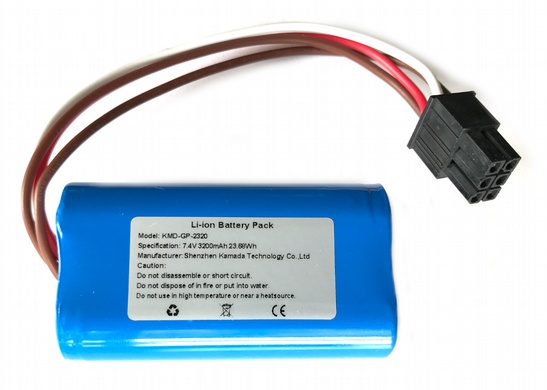
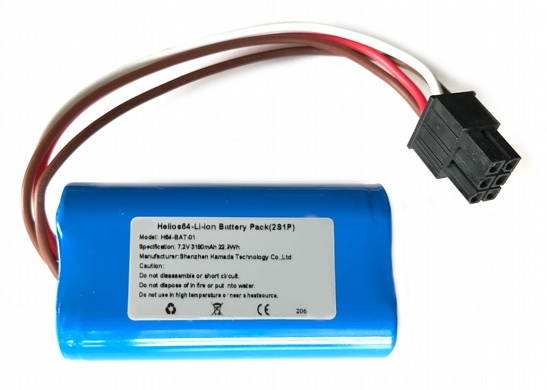
Update H64 UPS battery info

Changed region(s): [[0.2486, 0.5538, 0.5905, 0.8308]]

diff --git a/docs/helios64/ups.md b/docs/helios64/ups.md
@@ -10,13 +10,13 @@ When system detects AC power loss, the system will switch instantly to battery m
 
 ## Li-Ion Battery
 
-As part of Helios64 accessories, we provide a specially designed Li-Ion Battery for the UPS feature.
+As part of Helios64 accessories, we provide a specially designed Li-Ion Battery for the UPS feature (SKU: H64-BAT-01 ).
 
 ![Li-Ion Battery](/helios64/img/ups/battery.jpg)
 
-The actual cells of the this battery pack is the *Panasonic NCR18650BD*, we use 2x cells in 2S1P configuration. The battery pack is equipped with a thermistor to monitor the cell temperature.
+The actual cells of the this battery pack is the *Panasonic NCR18650BD*, we use 2x cells in 2S1P configuration. The battery pack is equipped with a protection IC (HY2120) and a thermistor to monitor the cell temperature.
 
-The battery pack is rated 7.4V 3200mAh (23.68Wh) with max continuous discharge of 10A.
+The battery pack is rated 7.2V 3180mAh (22.9Wh) with max continuous discharge of 10A.
 
 !!! Info
     It's possible for users to build their own battery if they respect the same above specification and pinout.
